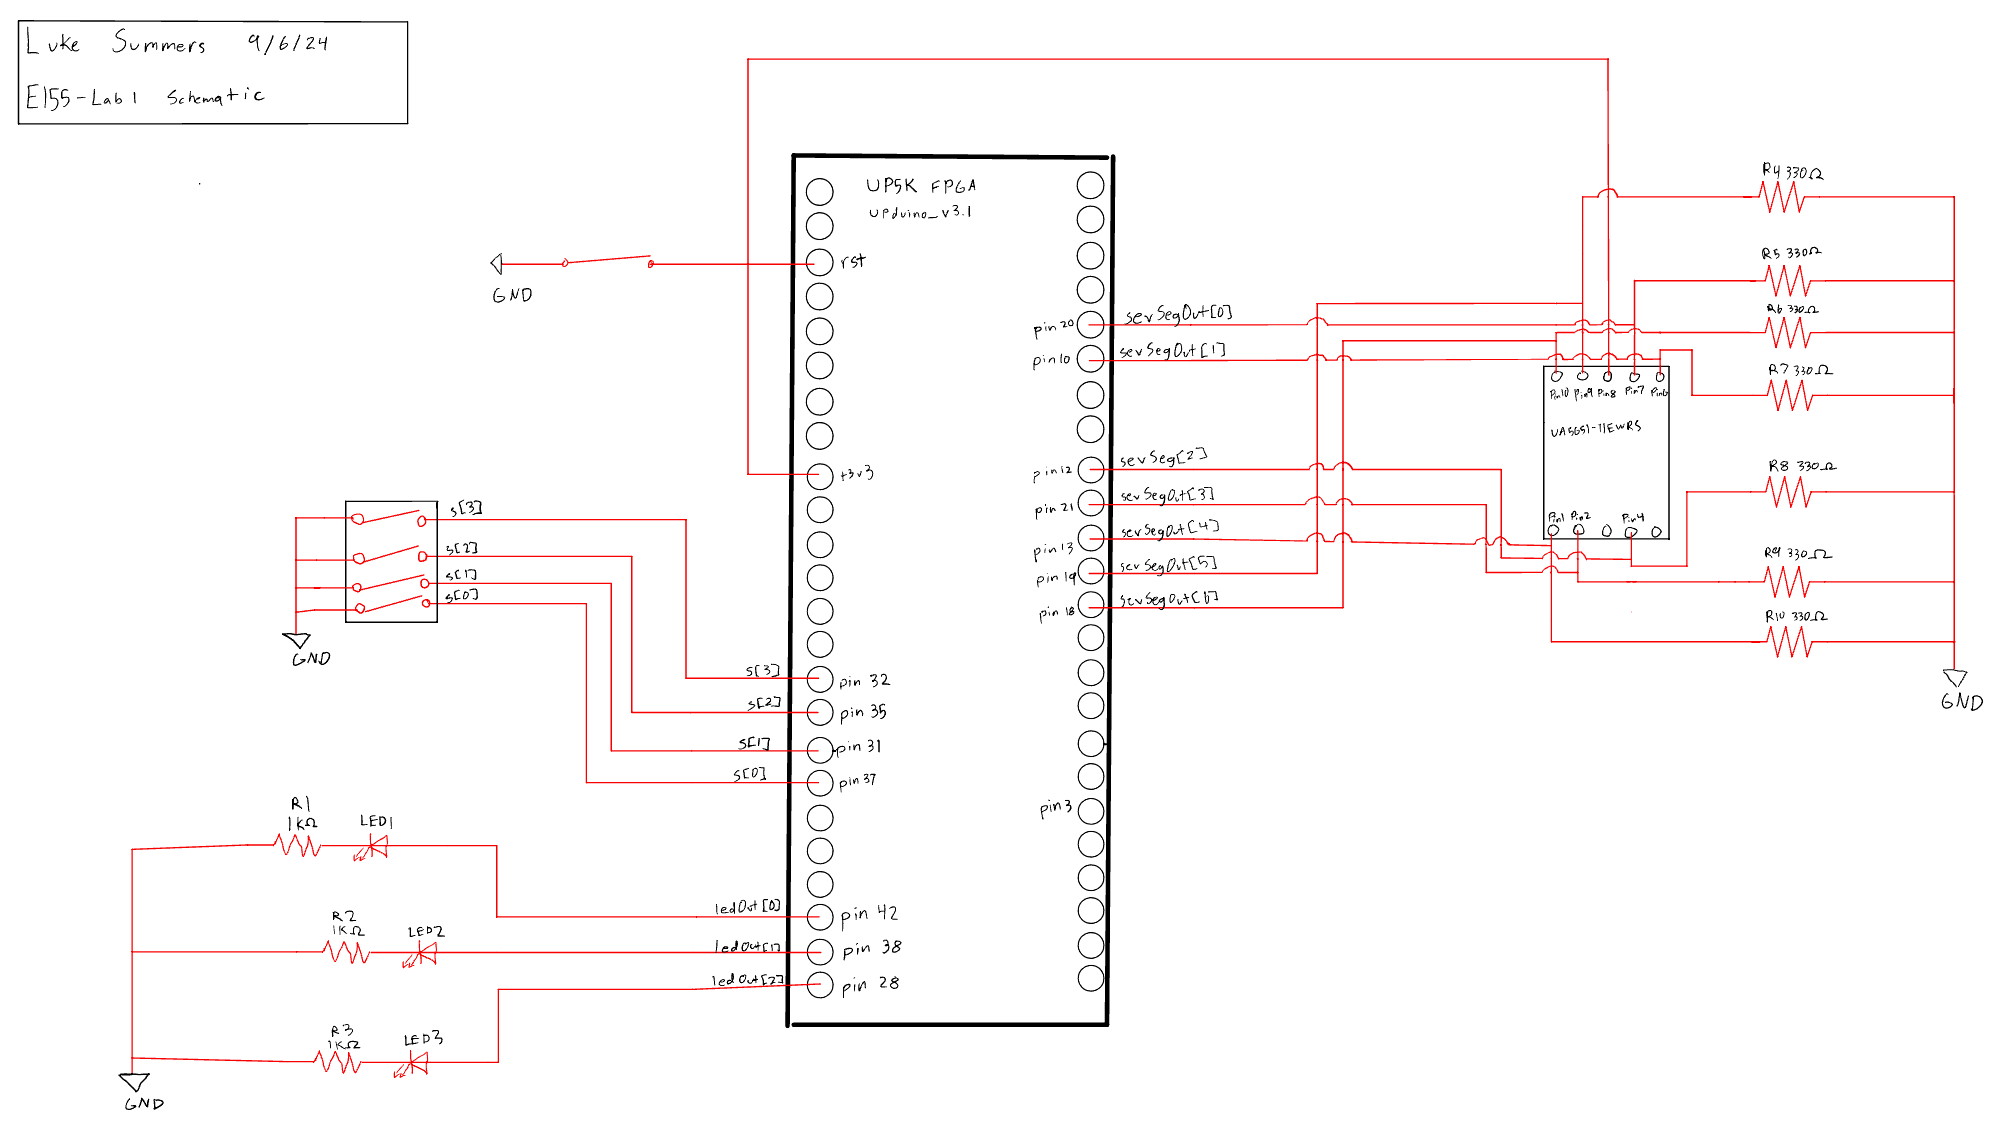
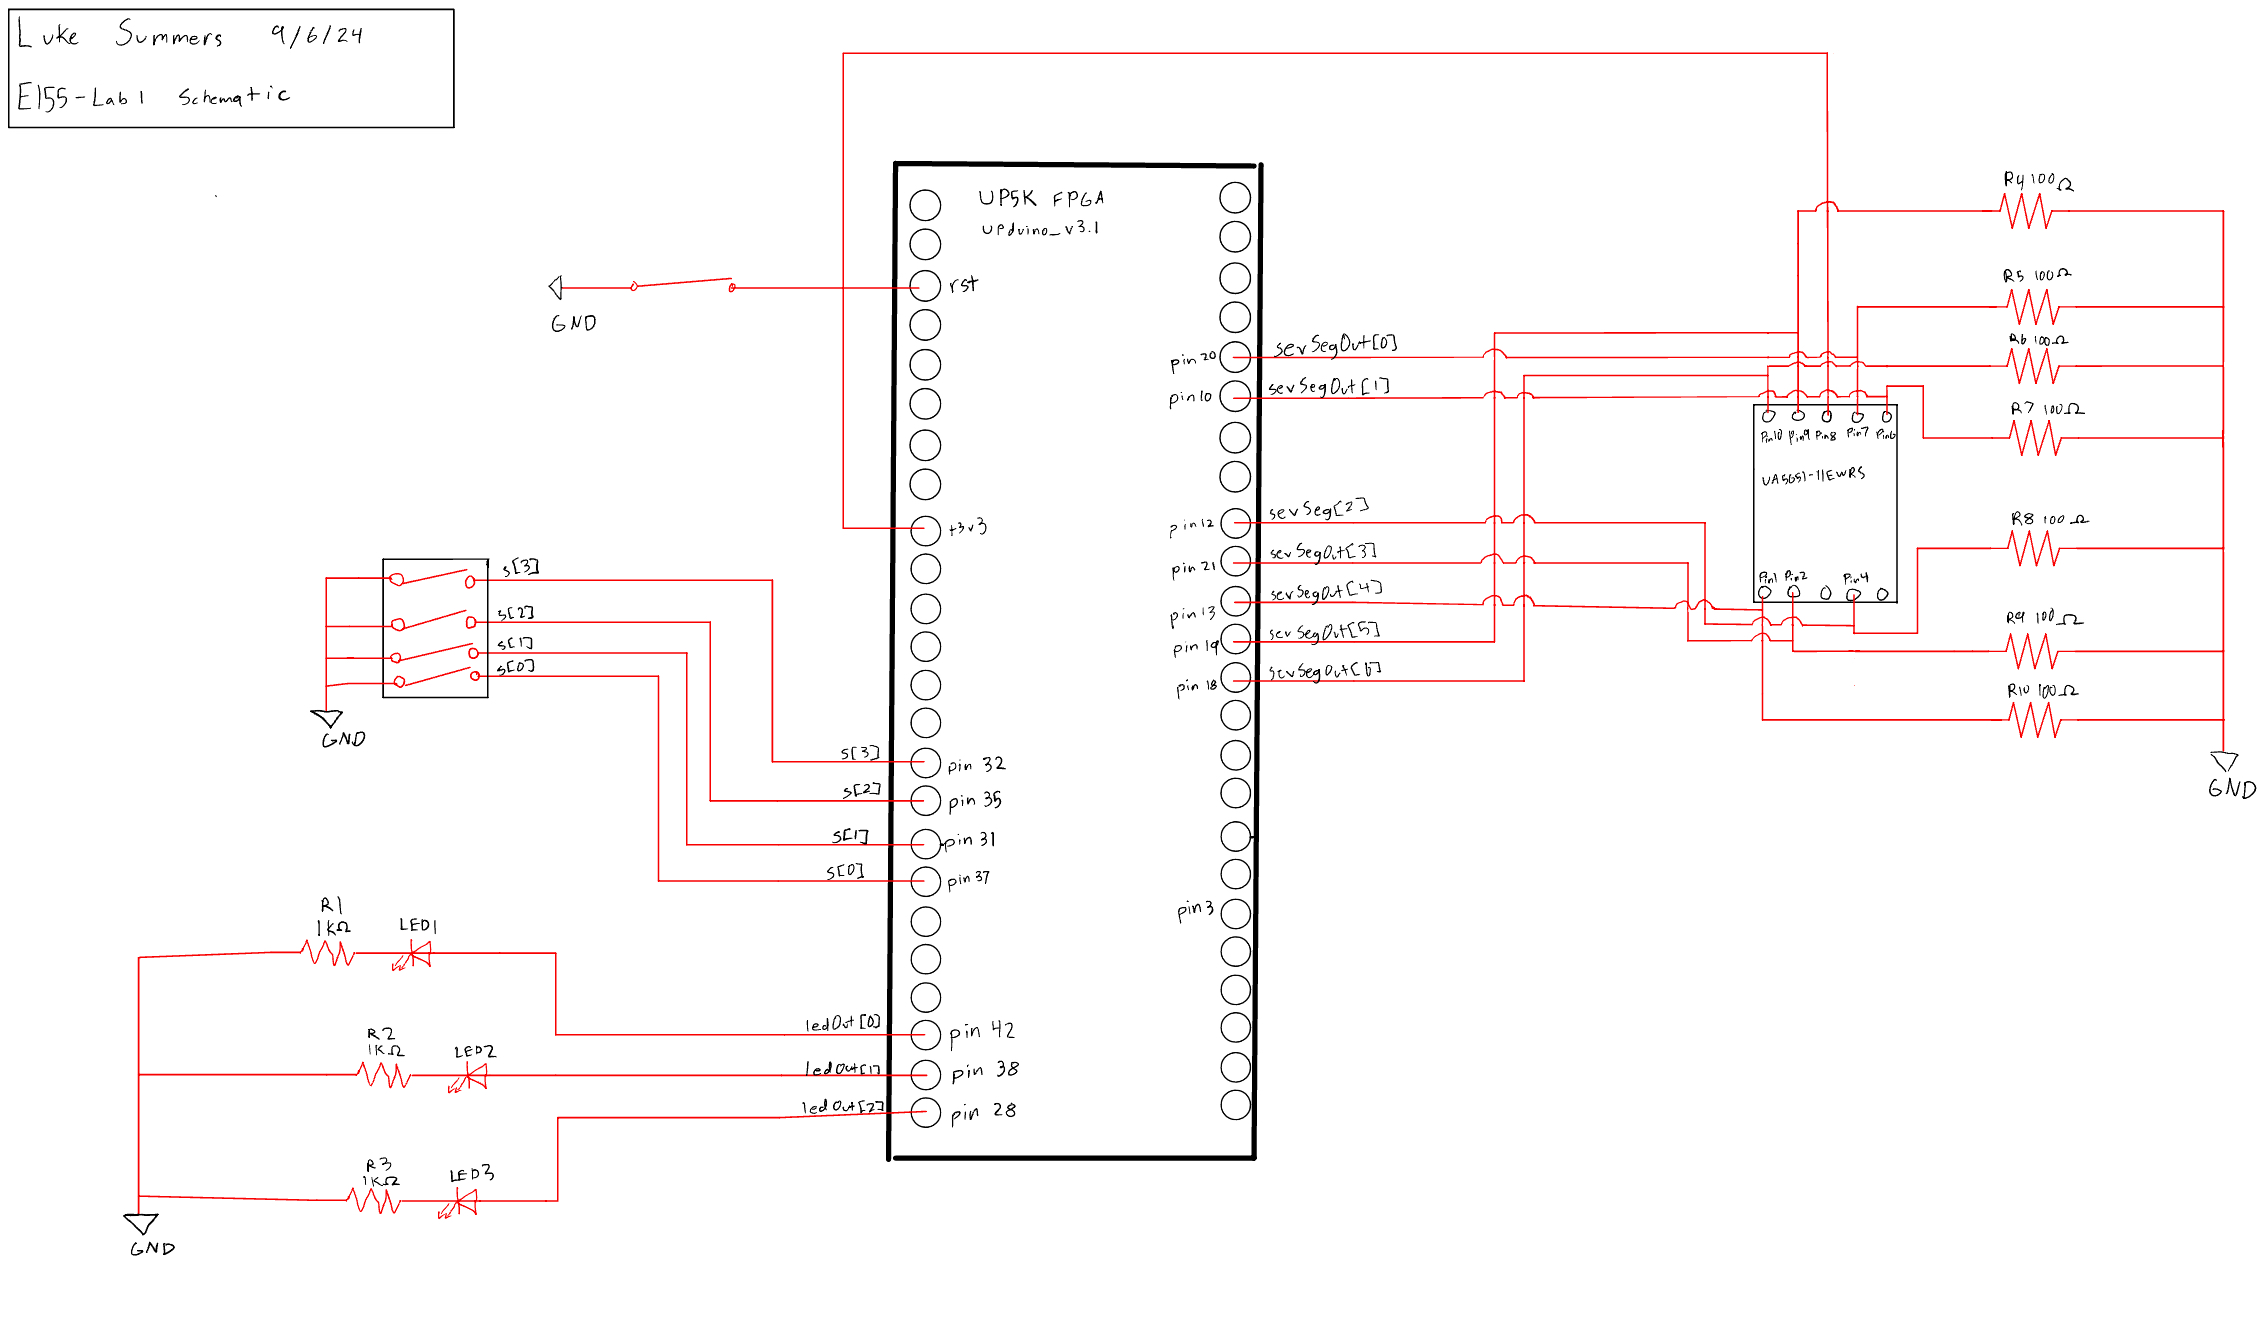
Built site for gh-pages

diff --git a/labs/lab1/lab1.html b/labs/lab1/lab1.html
@@ -237,7 +237,7 @@ window.Quarto = {
 </section>
 <section id="figure-2-schematic" class="level3">
 <h3 class="anchored" data-anchor-id="figure-2-schematic">Figure 2: Schematic</h3>
-<p><img src="images/schematic.jpg" class="img-fluid" alt="Figure 2: Schematic of the FPGA and LED Circuit"> Figure 2 shows the circuit for the lab. The LEDs were connected to current limiting resistors of 1k <span class="math inline">\(\Omega\)</span> for the on-board LEDs and 330 <span class="math inline">\(\Omega\)</span> for the seven segment display LEDs to ensure the circuit did not draw too much current from the FPGA pins.</p>
+<p><img src="images/schematic.jpg" class="img-fluid" alt="Figure 2: Schematic of the FPGA and LED Circuit"> Figure 2 shows the circuit for the lab. The LEDs were connected to current limiting resistors of 1k <span class="math inline">\(\Omega\)</span> for the on-board LEDs and 100 <span class="math inline">\(\Omega\)</span> for the seven segment display LEDs to ensure the circuit did not draw too much current from the FPGA pins. The resistor values for the seven segment display were found by solving for R in V = IR with the voltage and desired current of the circuit. The voltage drop of the LED was 1.5, and the desired current was 5-20 mA. Solving for R with 5 and 20 mA, we see that the desired resistor is between 75 and 300 <span class="math inline">\(\Omega\)</span>.</p>
 </section>
 </section>
 <section id="results-and-discussion" class="level2">
